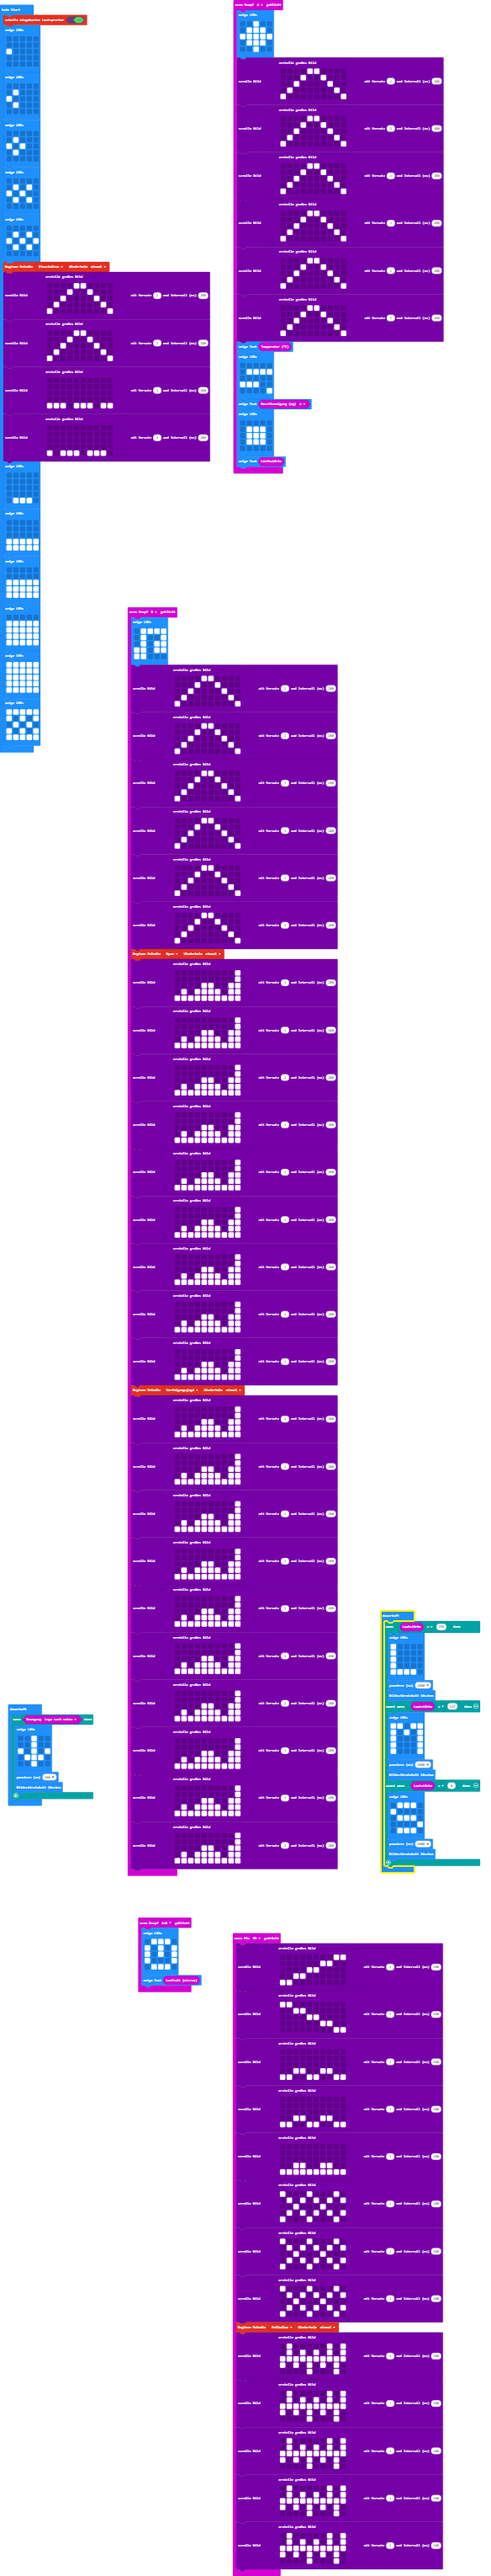
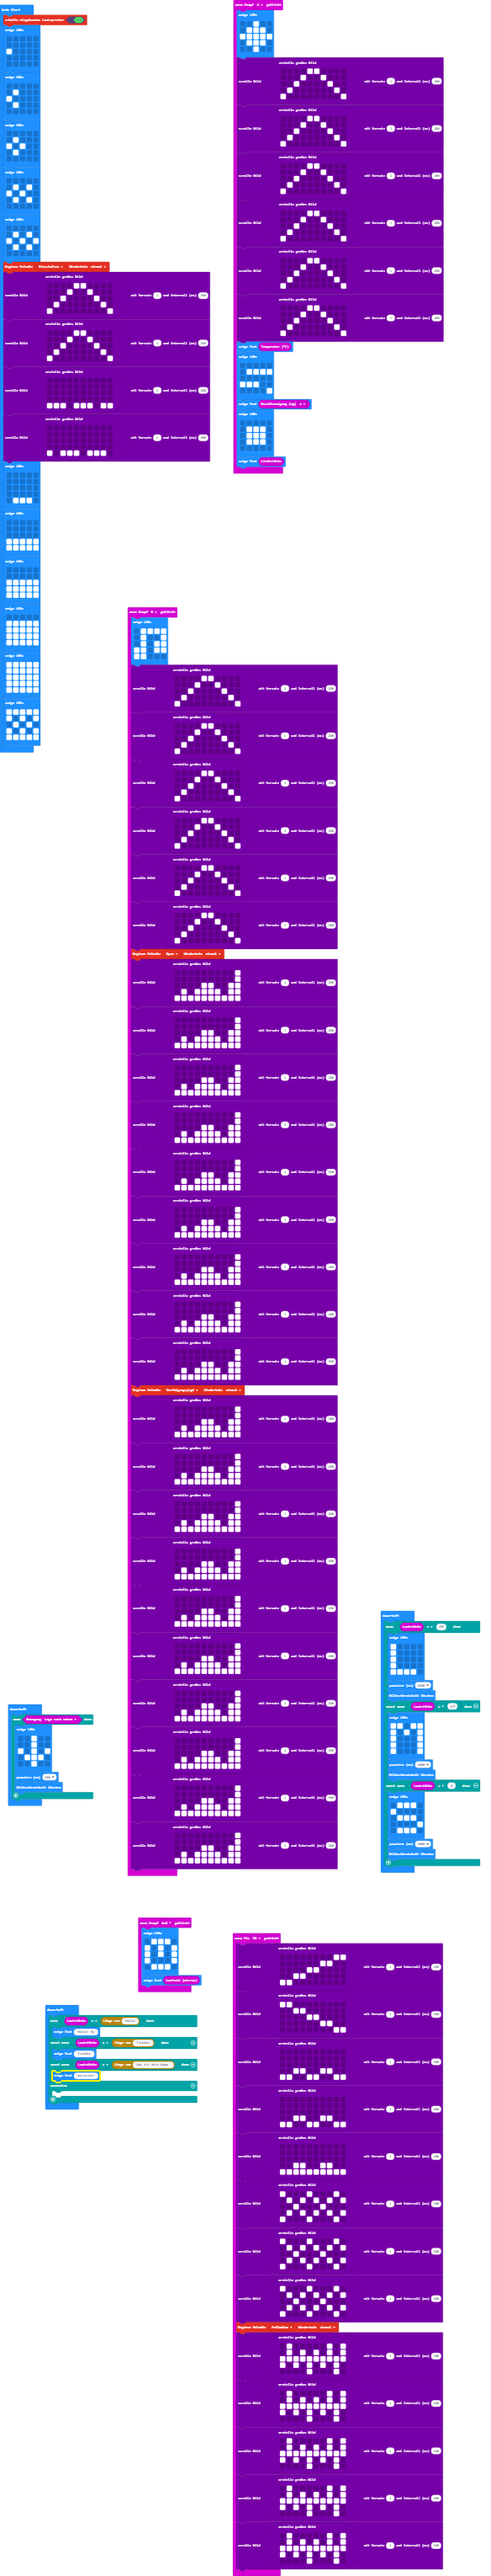
Rustikal Spracherkennung

Changed region(s): [[0.0925, 0.7764, 0.4007, 0.8385], [0.7705, 0.6211, 0.8014, 0.7453]]

diff --git a/main.ts b/main.ts
@@ -509,3 +509,14 @@ basic.forever(function () {
         basic.clearScreen()
     }
 })
+basic.forever(function () {
+    if (input.soundLevel() == "Hallo".length) {
+        basic.showString("Hallo! Du")
+    } else if (input.soundLevel() == "Tschüss".length) {
+        basic.showString("Tschüss")
+    } else if (input.soundLevel() == "Was ist dein Name ".length) {
+        basic.showString("micro:bit")
+    } else {
+    	
+    }
+})
